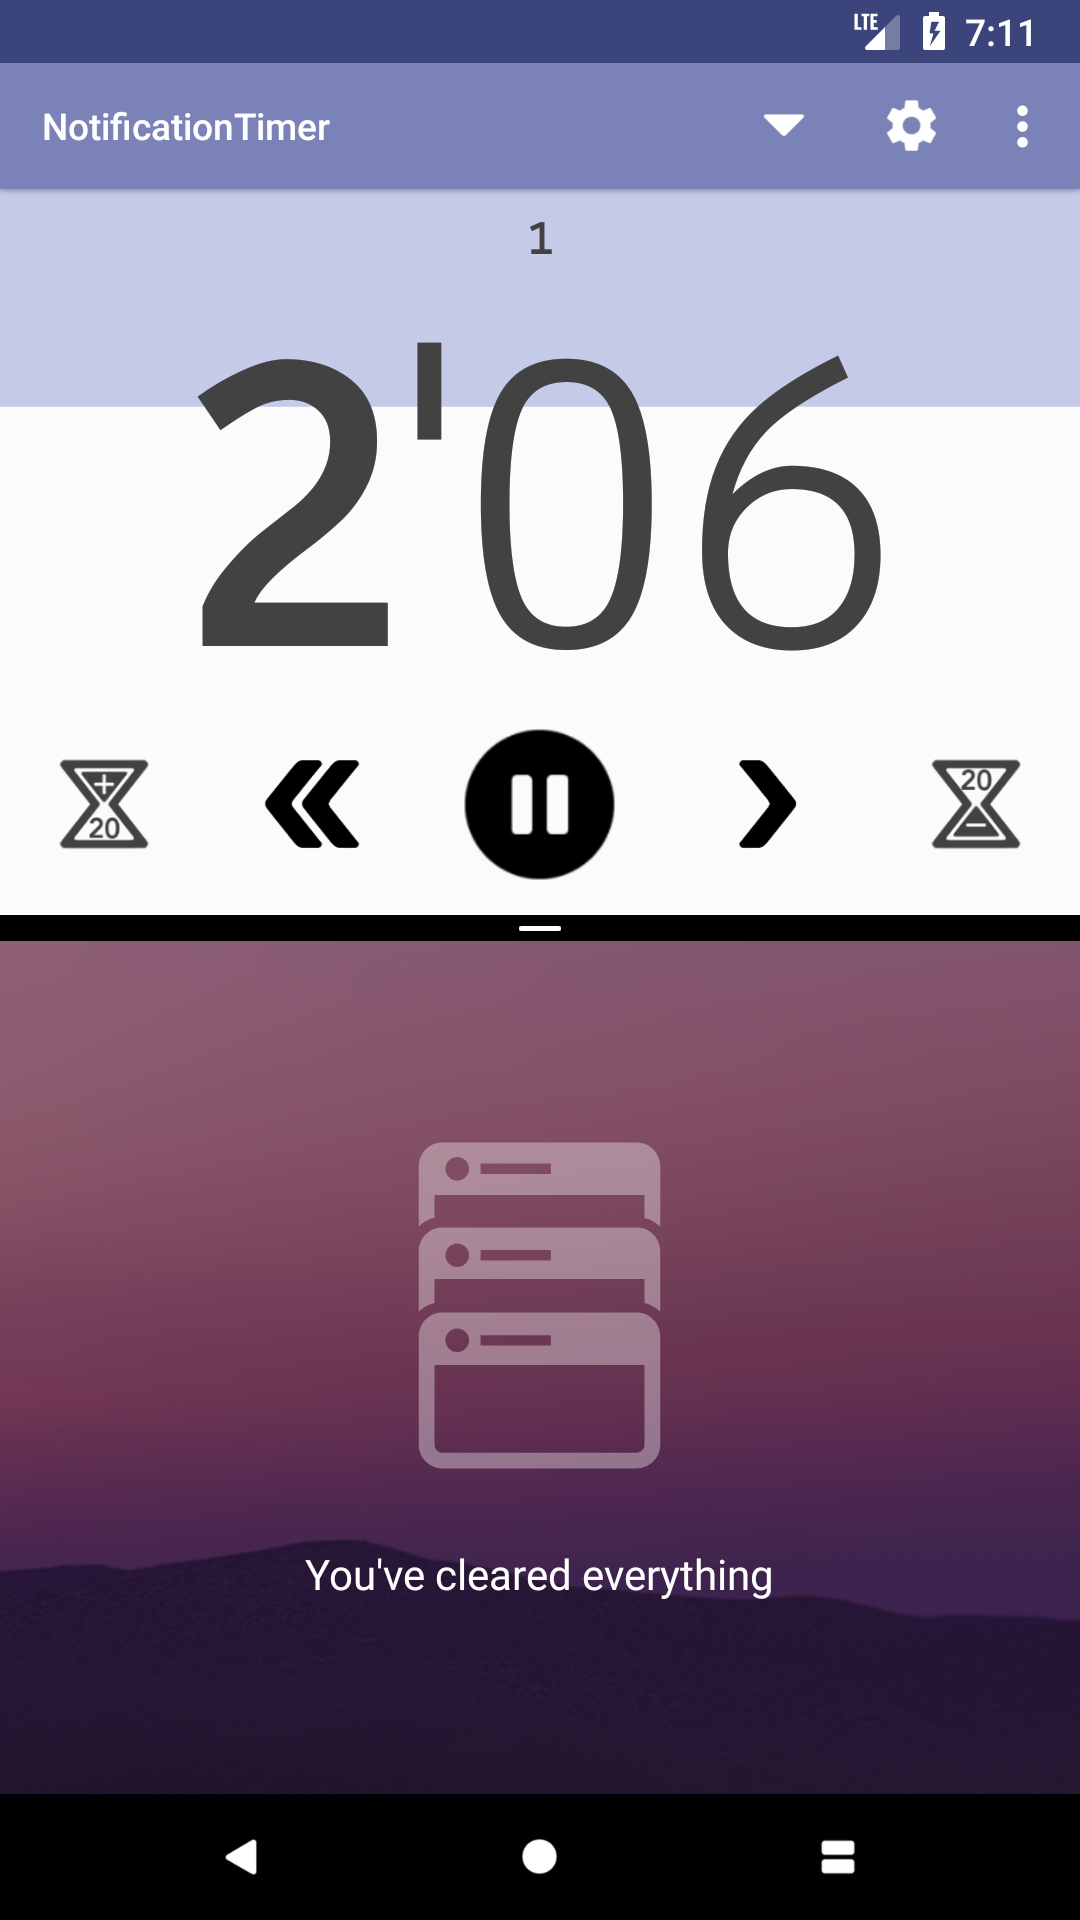
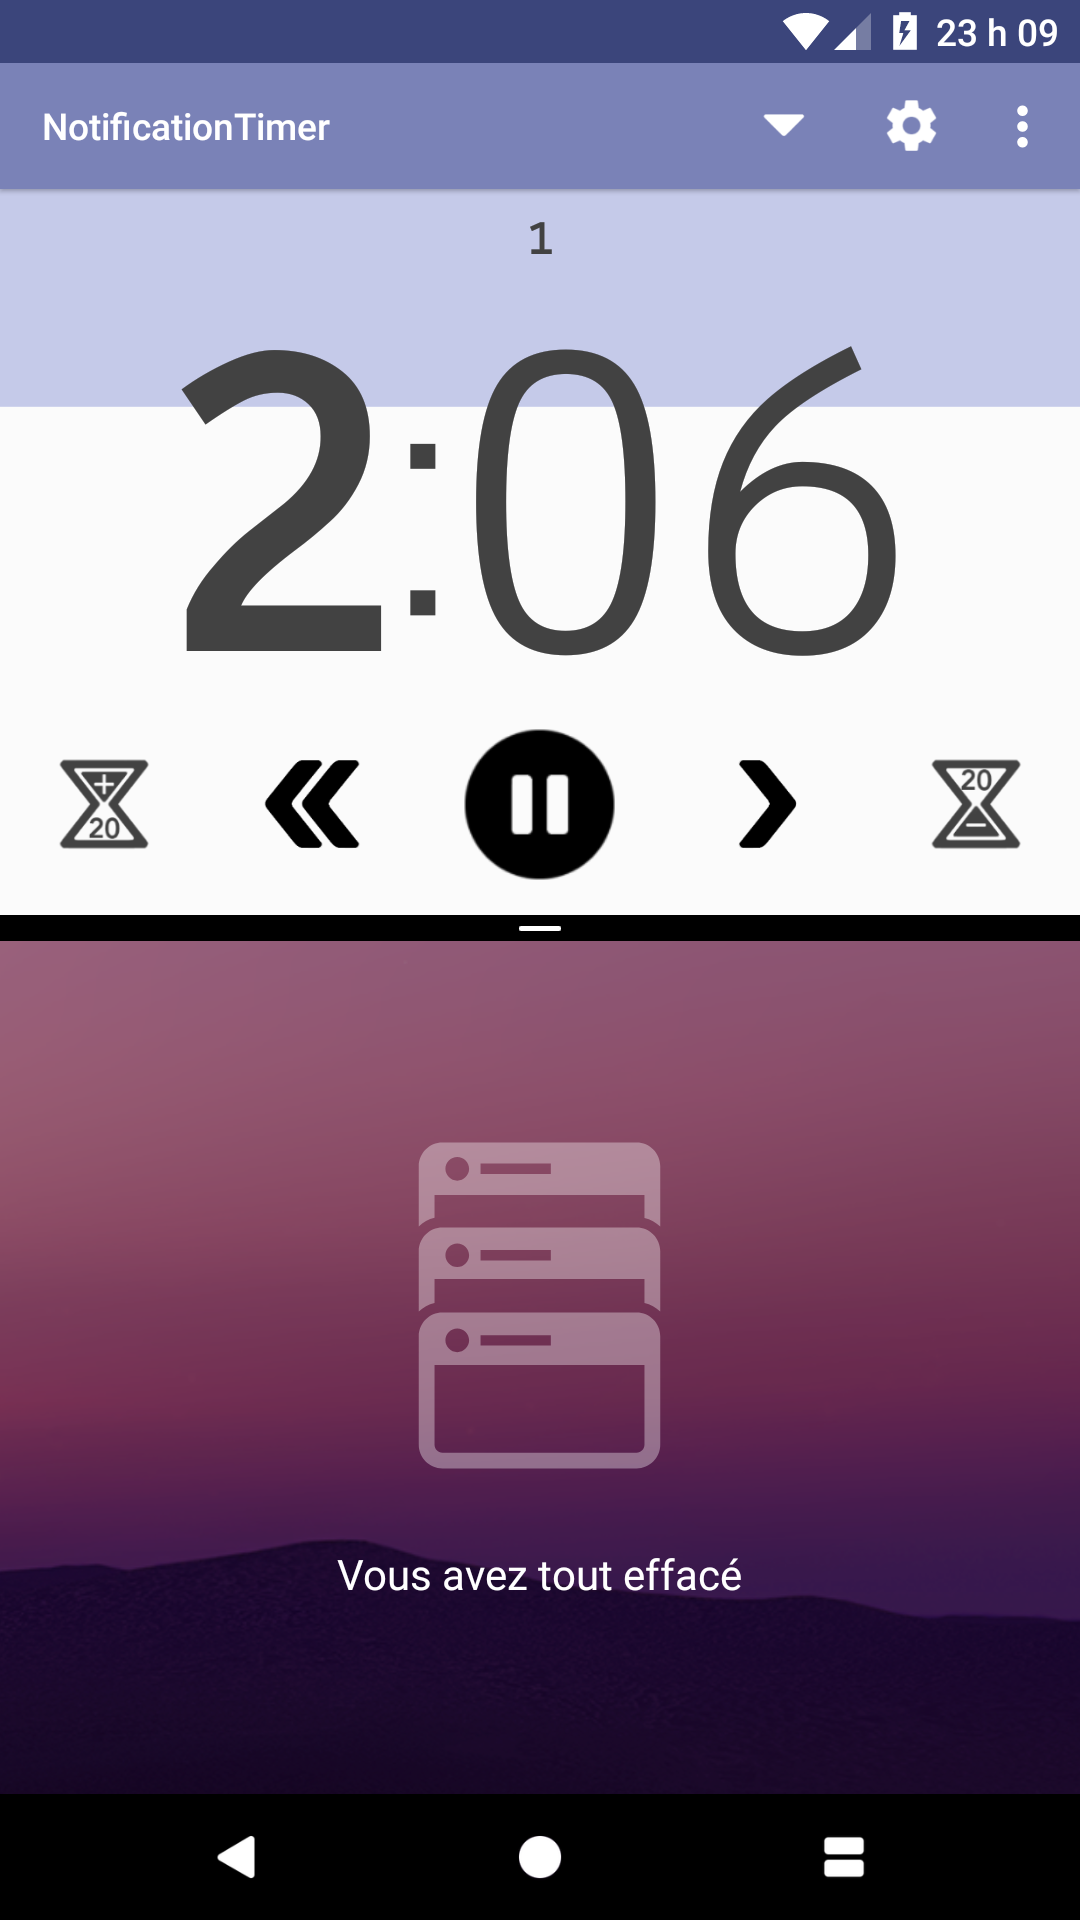
Update screenshots and tutorial with the new time separator, add landscape screenshot.

diff --git a/README.md b/README.md
@@ -1,6 +1,6 @@
 # NotificationTimer
 
-Countdown timer entirely controllable from the notifications and the lock screen.
+Simple and clean countdown timer entirely controllable from the notifications and the lock screen.
 Perfect for a quick access when unlocking the screen or while using another application, no need to expand the notification to access the buttons.
 
 Customizable timeout notification from the settings: vibration, sound, light and color background.
@@ -44,7 +44,7 @@ The background color can be customized or disabled from the settings. These colo
 
 ### Activity
 
-<img src="screenshots/Activity_running.png" width="350"/> <img src="screenshots/Activity_running_get_ready.png" width="350"/> <img src="screenshots/Activity_running_multi.png" width="350"/> <img src="screenshots/Notification_screen_locked.png" width="350"/>
+<img src="screenshots/Activity_running.png" width="350"/> <img src="screenshots/Activity_running_get_ready.png" width="350"/> <img src="screenshots/Activity_running_multi.png" width="350"/> <img src="screenshots/Notification_screen_locked.png" width="350"/> <img src="screenshots/Activity_running_landscape.png" width="350"/>
 
 ### Tutorial
 
